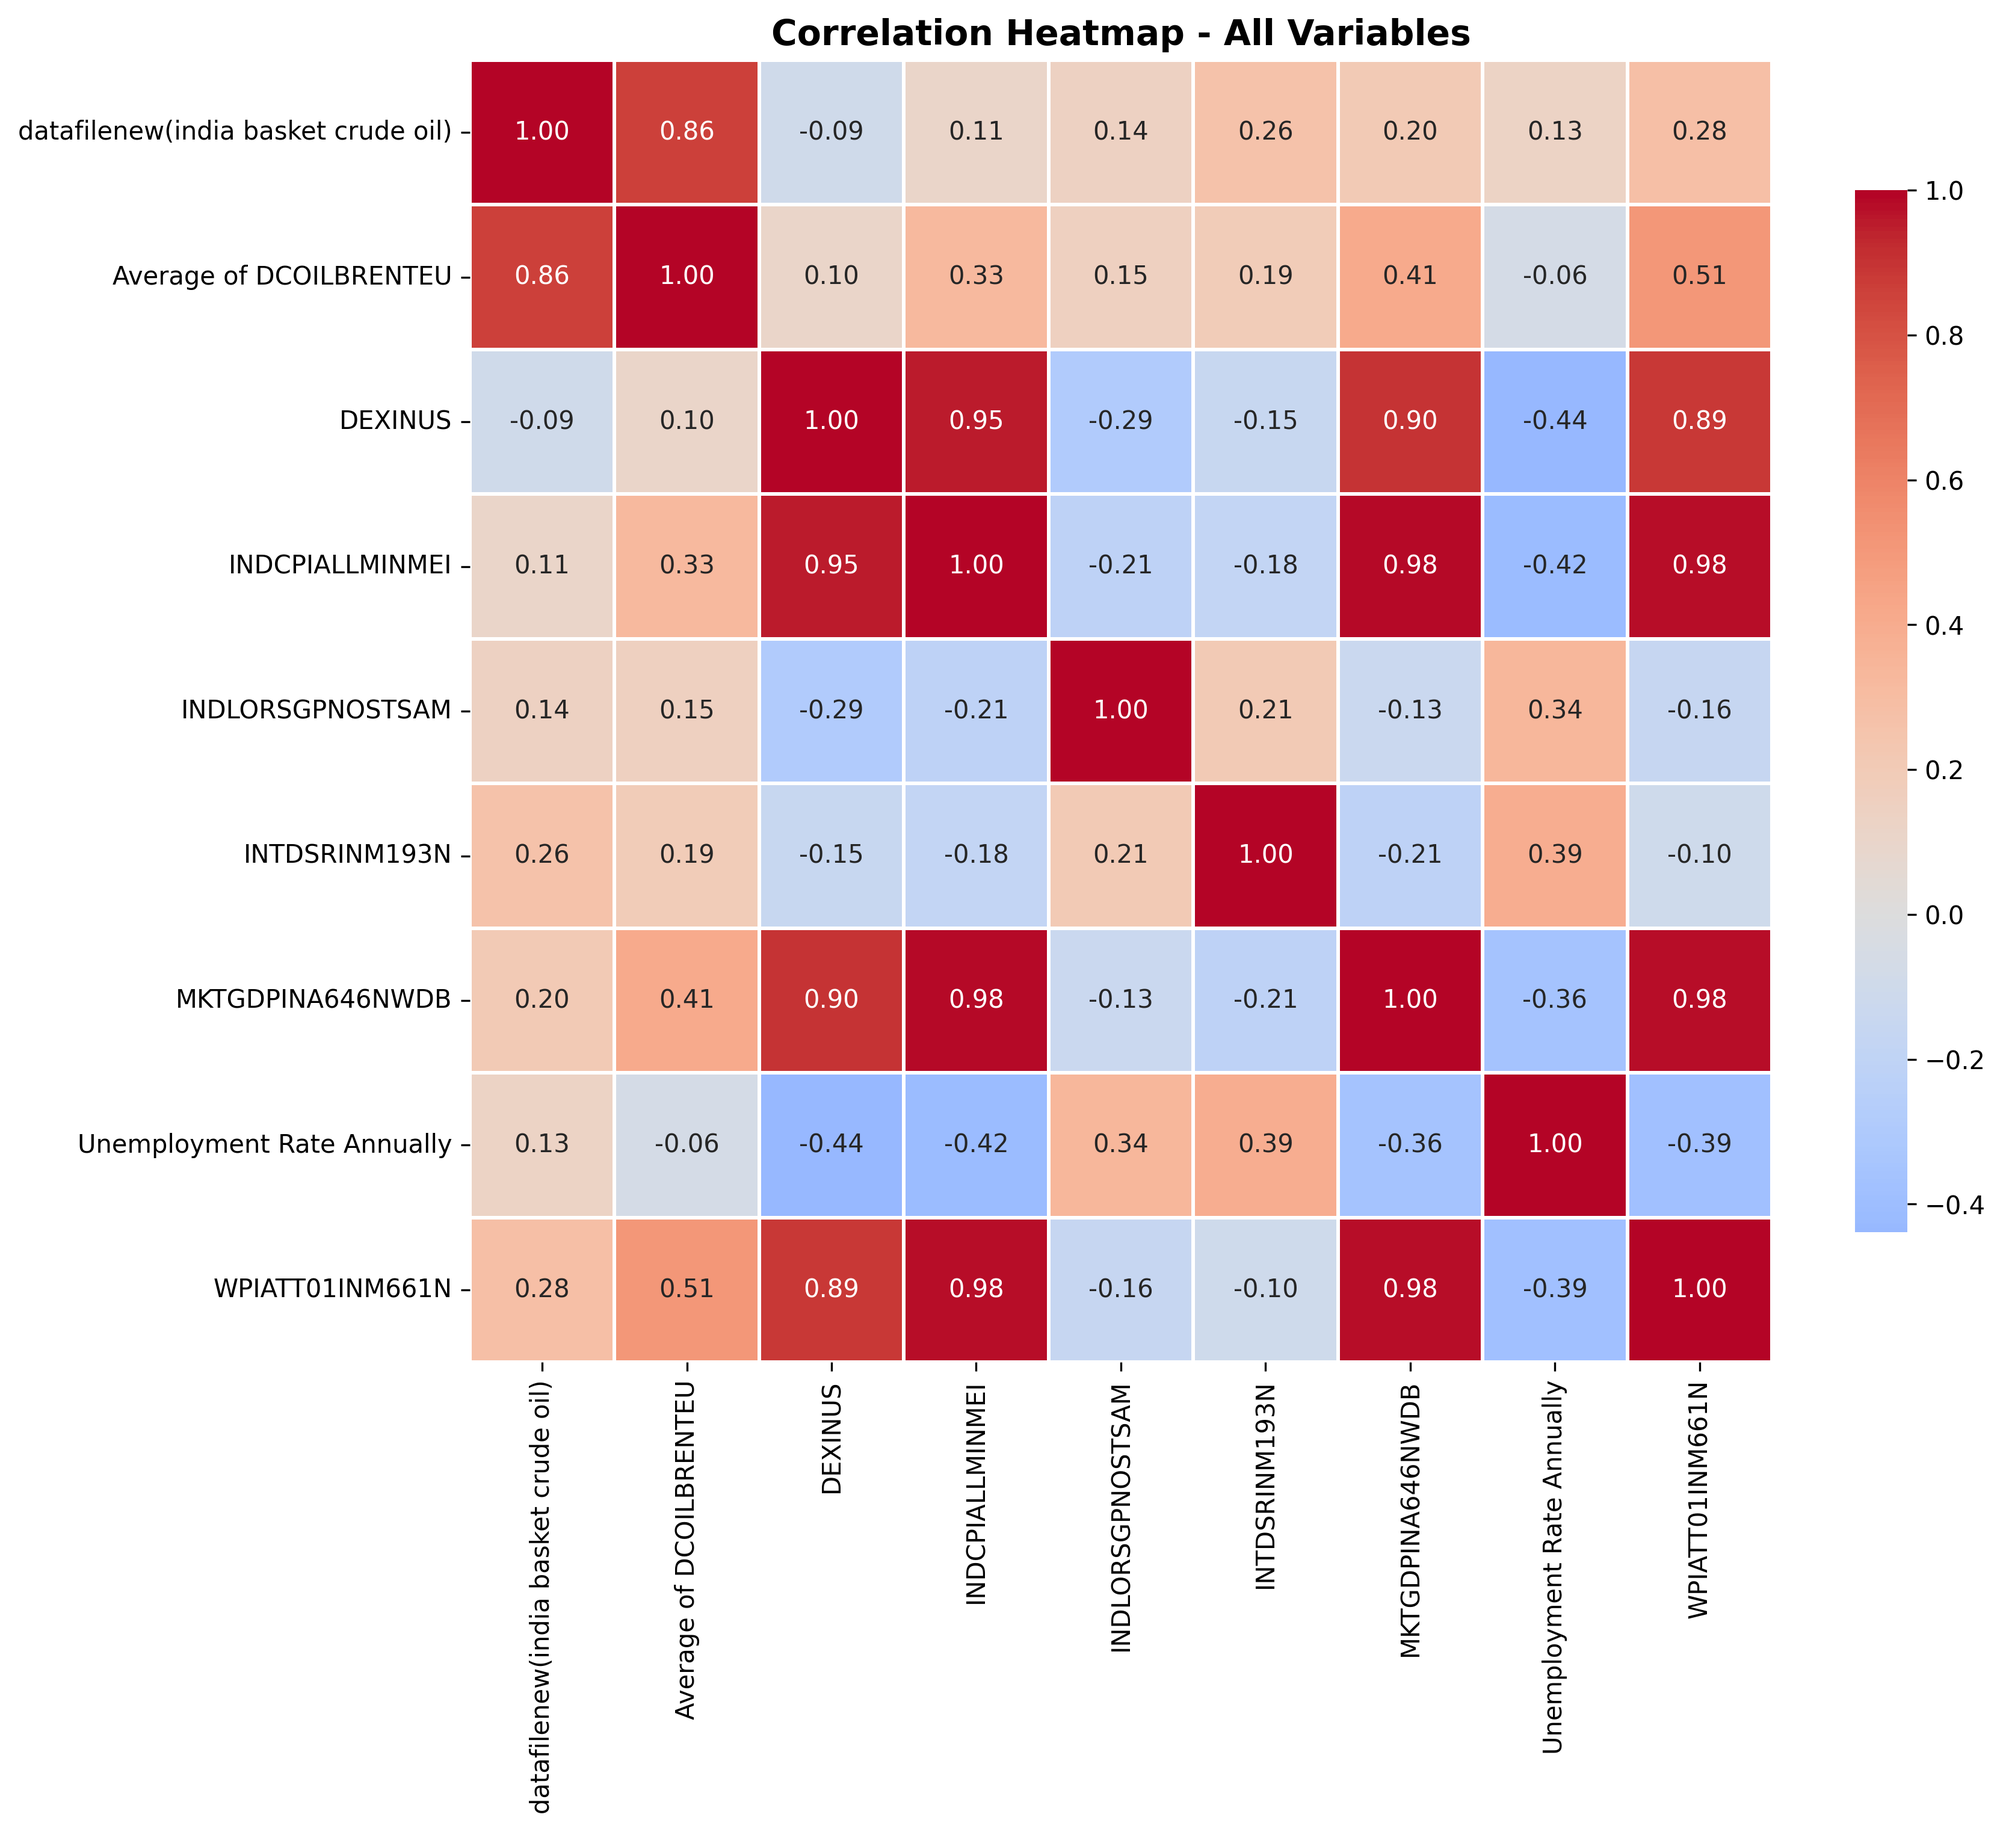
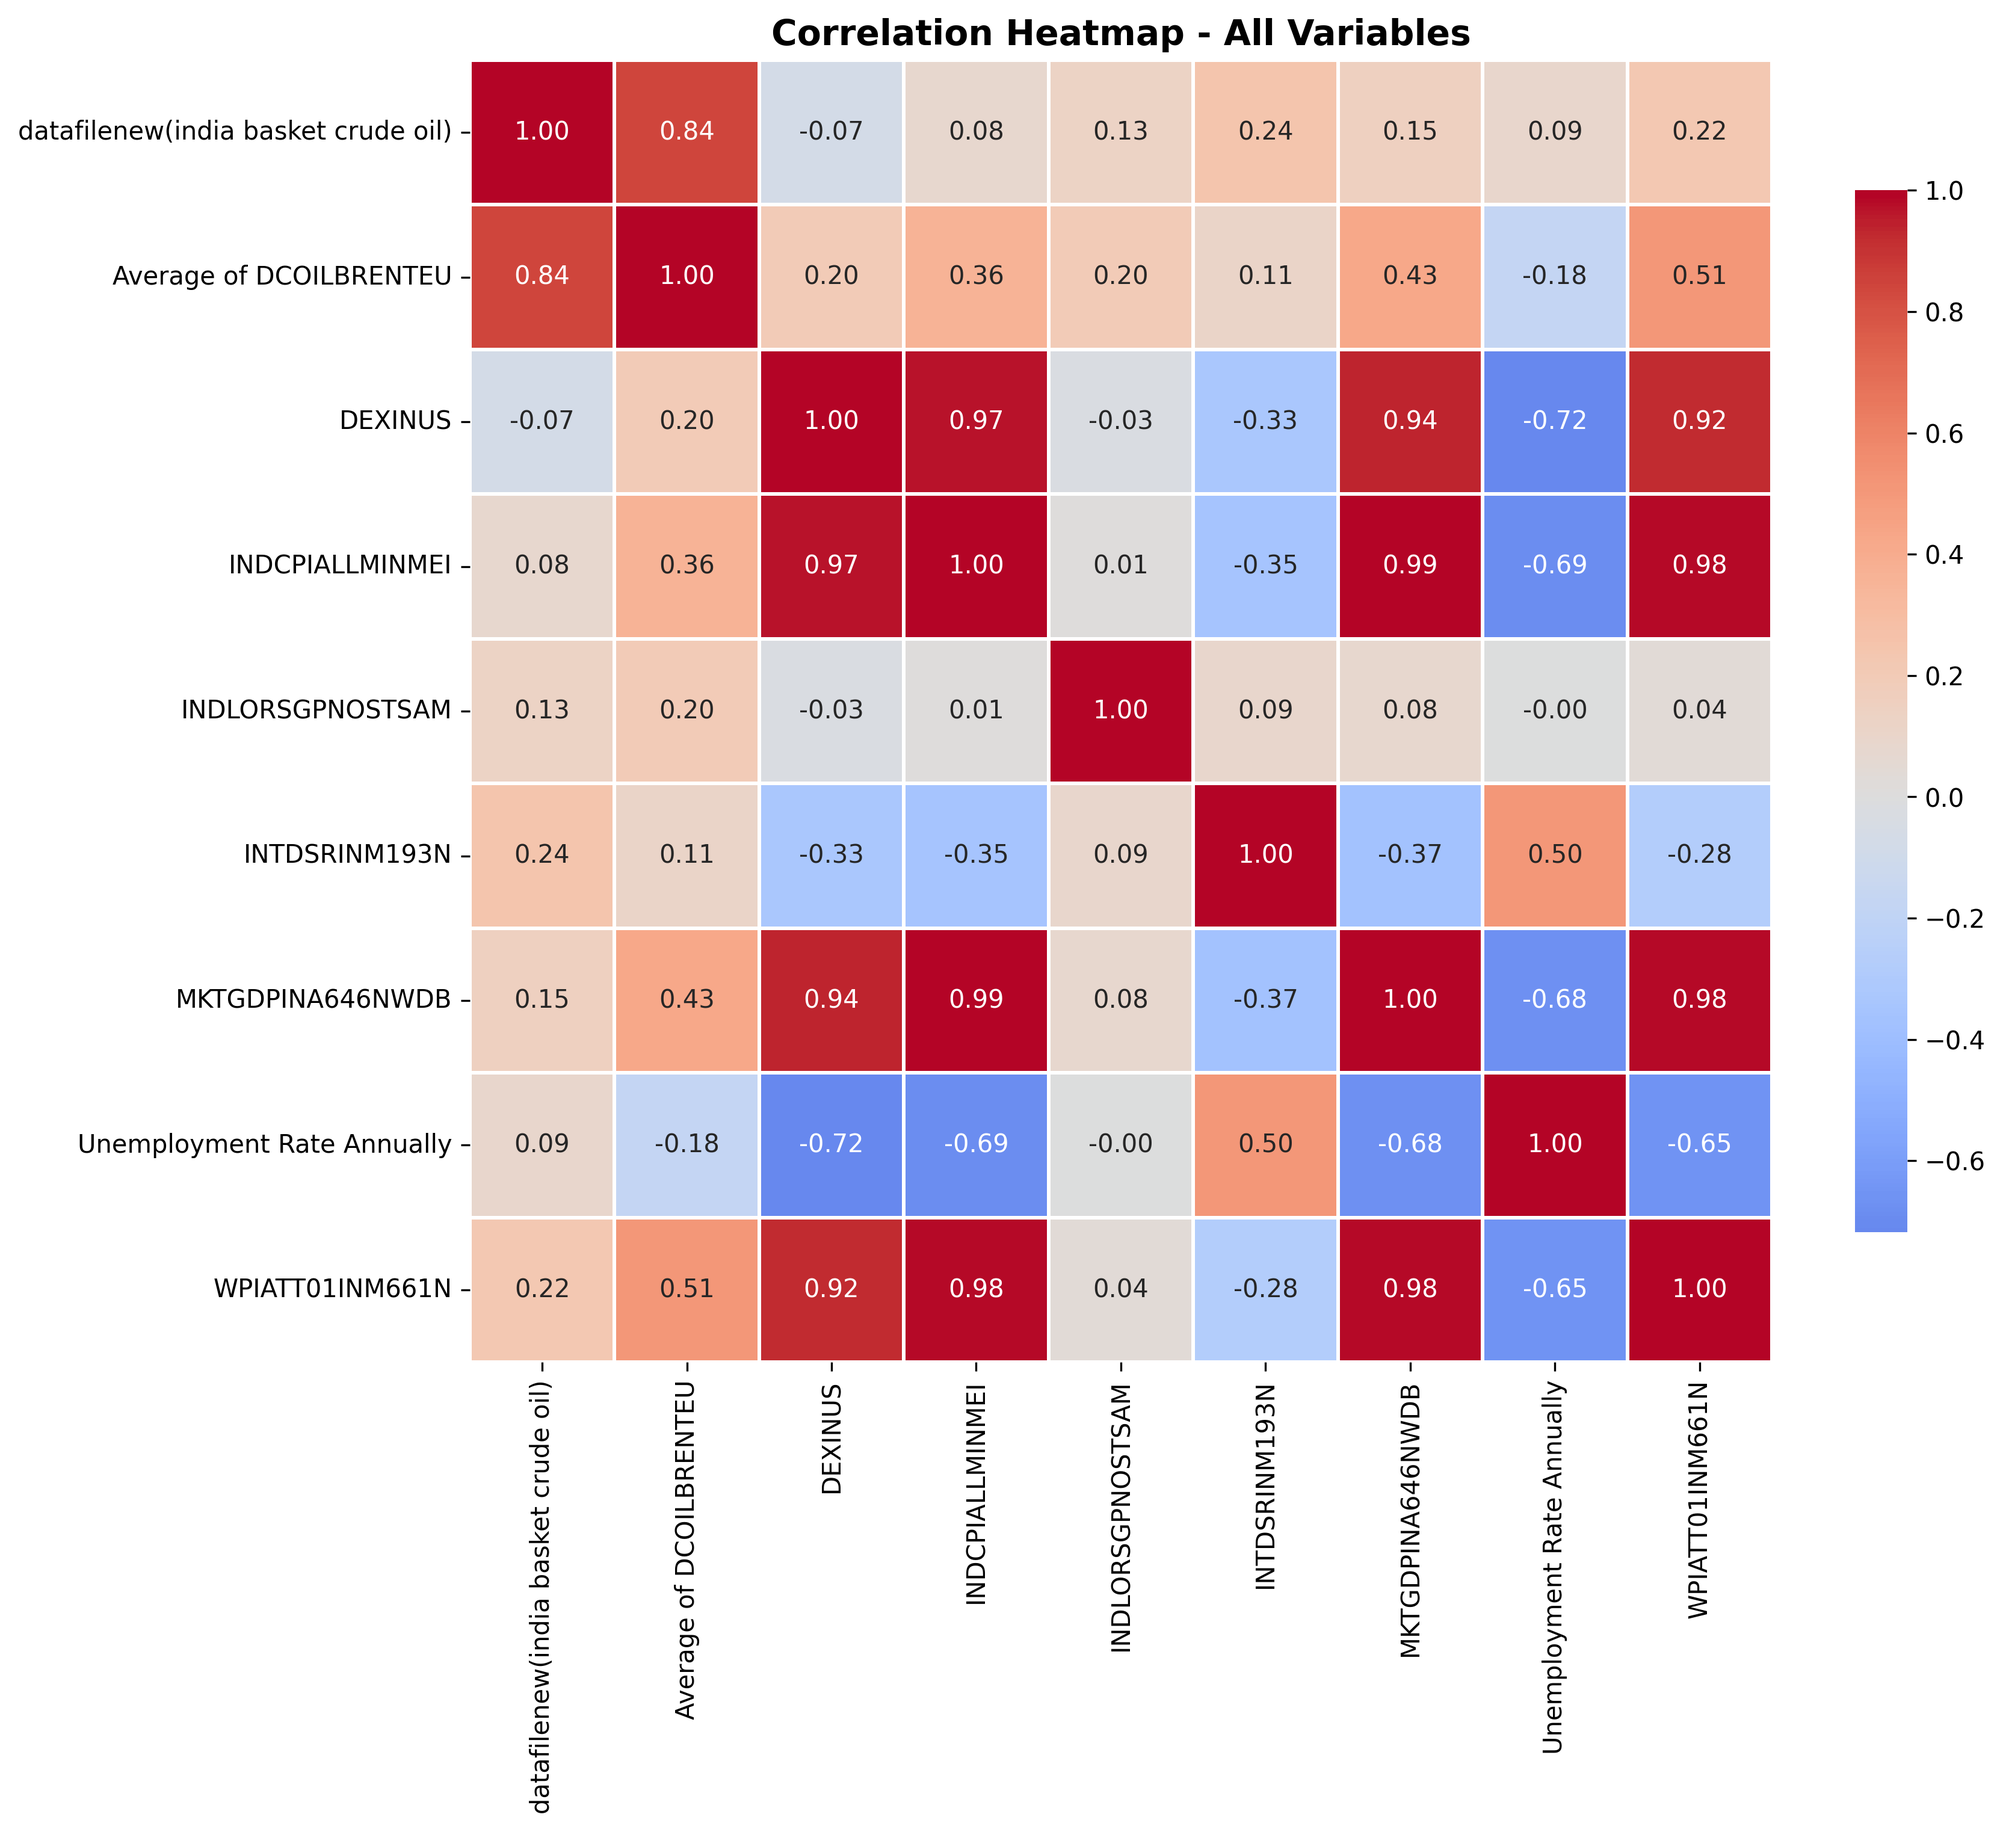
fix: Resolve pandas resample DatetimeIndex errors and notebook cell ordering
- Fixed notebook EDA.ipynb cell sequencing (imports, data load, analysis)
- Changed resample 'ME' to 'MS' for pandas 3.x compatibility
- Ensured Date column is datetime before resampling in dashboard and analysis routes
- All cells now execute successfully with correct output
- Flask app running with Material Design 3 UI templates

Changed region(s): [[0.3749, 0.1872, 0.9997, 0.7488]]

diff --git a/app.py b/app.py
@@ -76,7 +76,9 @@ def dashboard():
         return ((current - past) / past) * 100
 
     # Historical data for chart (Last 24 months, resampling to monthly)
-    df_monthly = df.set_index('Date').resample('ME').last().reset_index()
+    df = df.copy()
+    df['Date'] = pd.to_datetime(df['Date'])
+    df_monthly = df.set_index('Date').resample('MS').last().reset_index()
     recent_history = df_monthly.tail(24).copy()
     
     # Calculate YoY inflation for the chart
@@ -152,7 +154,9 @@ def analysis():
     
     import numpy as np
     analysis_data_dict = {}
-    df_monthly = df.set_index('Date').resample('ME').last().reset_index()
+    df = df.copy()
+    df['Date'] = pd.to_datetime(df['Date'])
+    df_monthly = df.set_index('Date').resample('MS').last().reset_index()
     dates_str = df_monthly['Date'].dt.strftime('%b %Y').tolist()
     
     for col_key, col_name in corr_cols.items():
